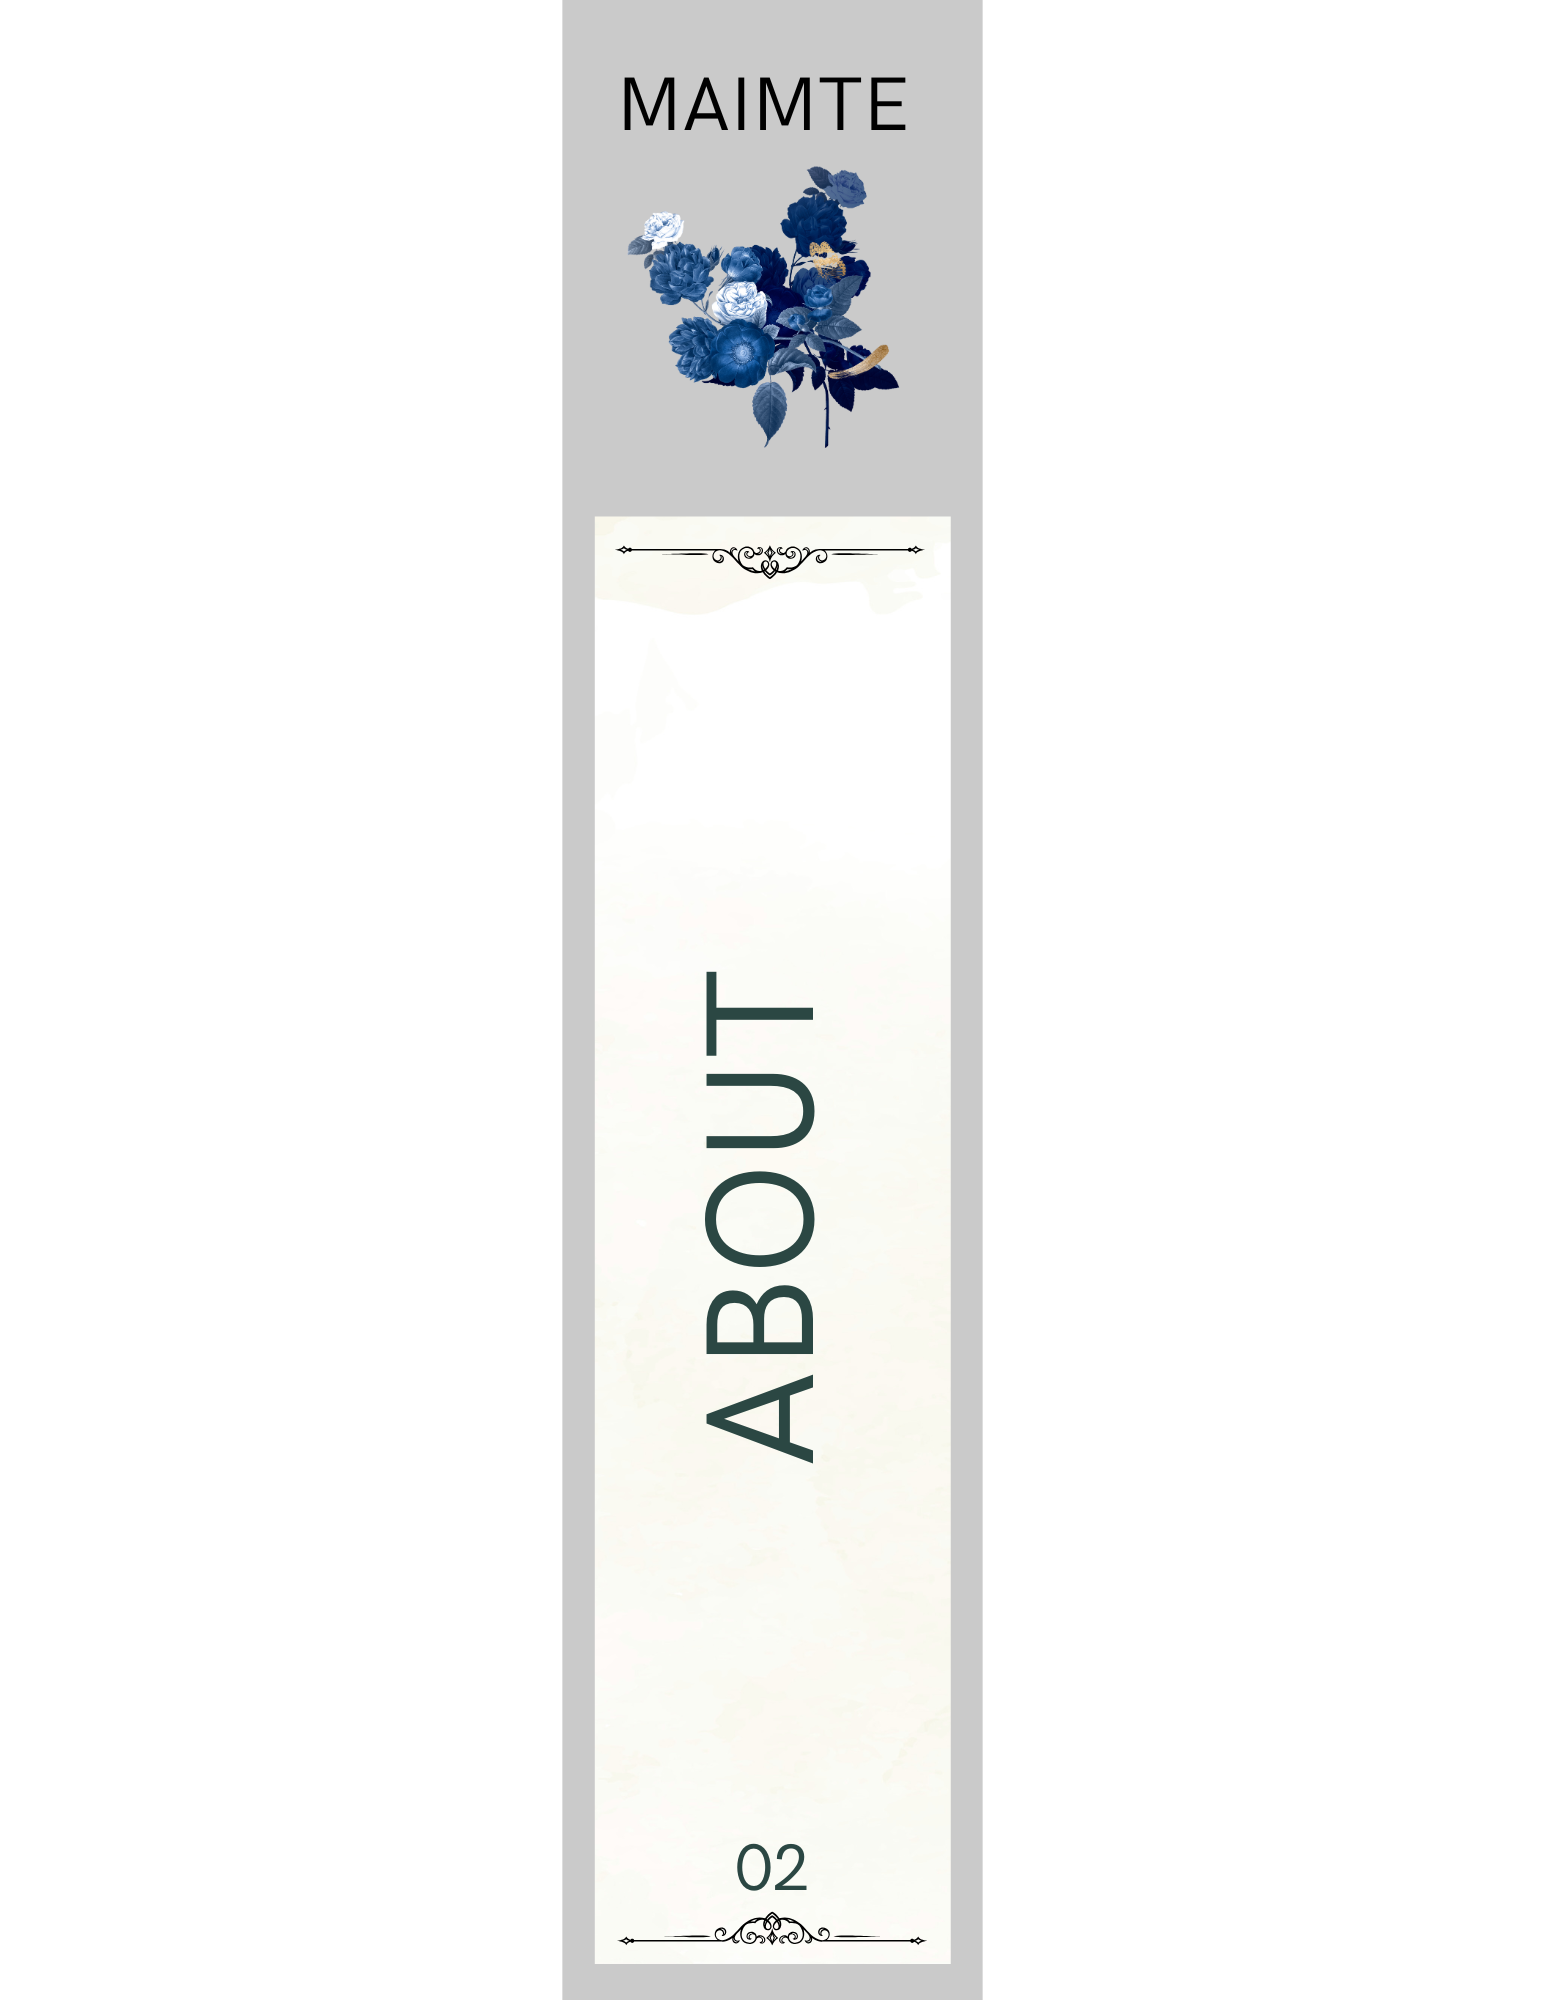
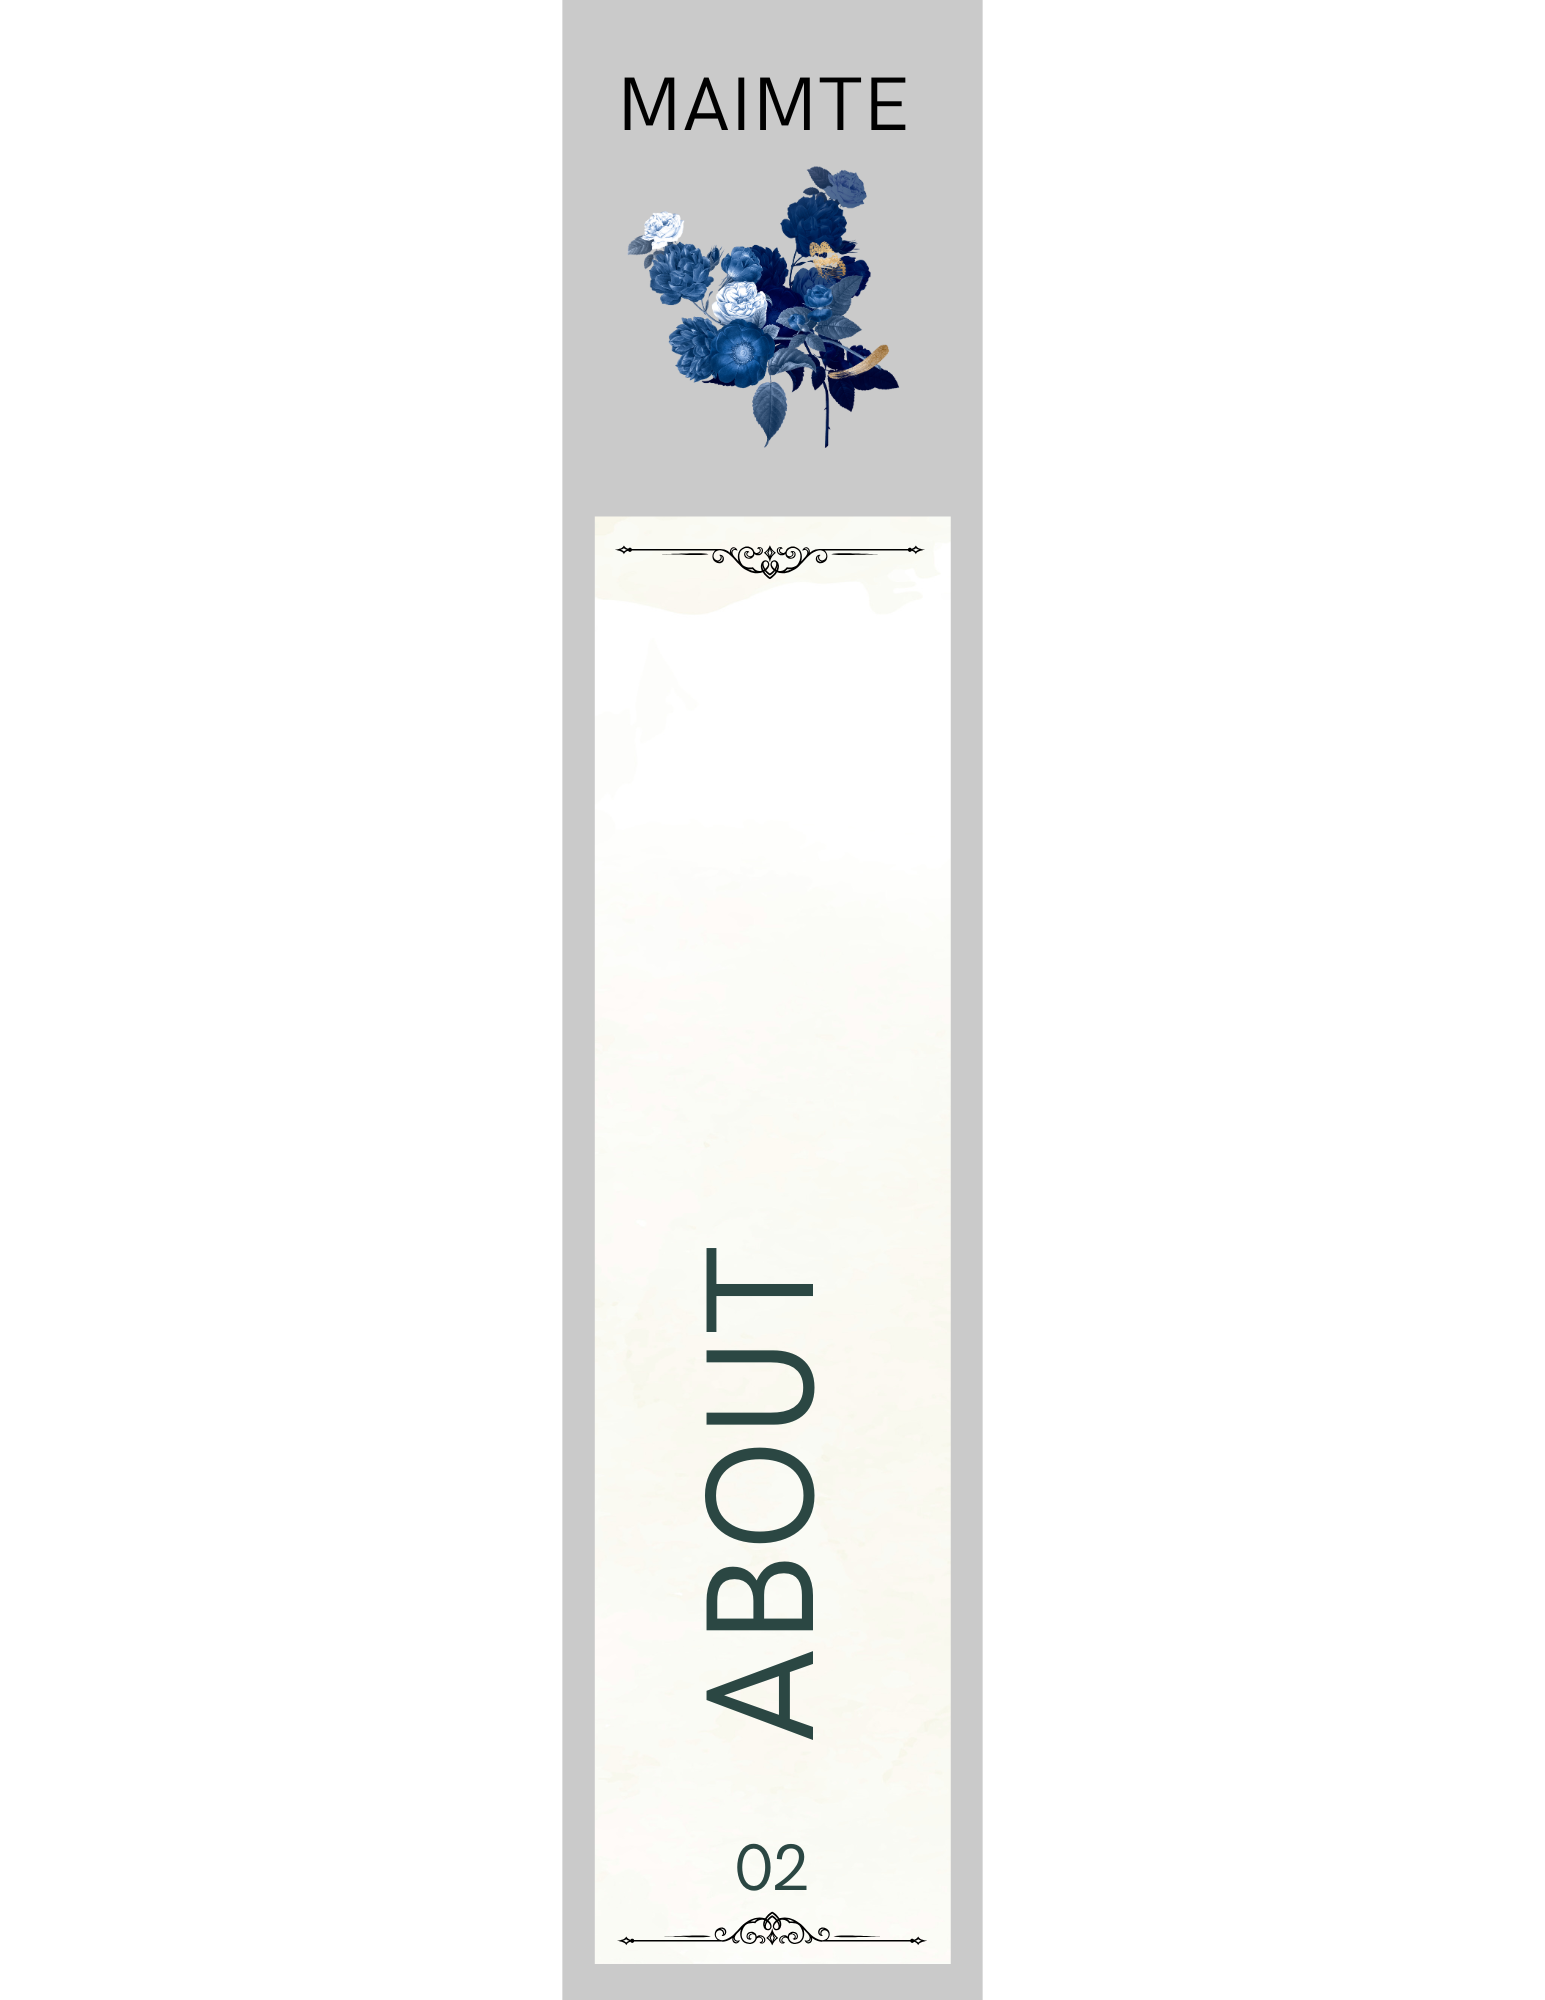
ok

Changed region(s): [[0.435, 0.496, 0.5282, 0.868]]

diff --git a/index.css b/index.css
@@ -167,6 +167,9 @@ header .logo img{
     height: 100%;
     width: 100%;
     background-color: #fff;
+    background-image: url(Anime\ style\ night\ forest.jpeg);
+    background-size: cover;
+    background-position: center;
     position: relative;
     display: flex;
     align-items: center;
@@ -178,7 +181,7 @@ header .logo img{
     background-color: transparent;
     position: absolute;
     left: 20px;
-    bottom: 20px;
+    top: 20px;
     font-size: 7em;
     font-family: 'Times New Roman', Times, serif;
     color: transparent;
@@ -572,8 +575,8 @@ animation-delay: calc((8s / 5 * (var(--position) - 1)));
 }
 #about .introduction .photo img{
     position: absolute;
-    background-color: transparent;
-    right: 0;
+    background-color: red;
+    right: -10%;
     bottom: 0;
     height: 70%;
 }
@@ -864,9 +867,6 @@ THE RESPONSIVE TO 320
 #menucontainer .themenu .home{
     height: 45%;
     width: 112px;
-    background-image: url(home.png);
-    background-position: center;
-    background-size: cover;
     bottom: 8%;
     right: 287px;
     transform: rotate(0deg);
@@ -875,9 +875,6 @@ THE RESPONSIVE TO 320
 #menucontainer .themenu .about{
     height: 45%;
     width: 94px;
-    background-image: url(about.png);
-    background-position: center;
-    background-size: cover;
     bottom: 8%;
     right: 189px;
     transform: rotate(1deg);
@@ -886,9 +883,6 @@ THE RESPONSIVE TO 320
 #menucontainer .themenu .project{
     height: 45%;
     width: 79px;
-    background-image: url(project.png);
-    background-position: center;
-    background-size: cover;
     bottom: 8%;
     right: 105px;
     transform: rotate(0deg);
@@ -897,9 +891,6 @@ THE RESPONSIVE TO 320
 #menucontainer .themenu .contect{
     height: 45%;
     width: 79px;
-    background-image: url(contect.png);
-    background-position: center;
-    background-size: cover;
     bottom: 8%;
     right: 20px;
     transform: rotate(-1.5deg);

diff --git a/index.html b/index.html
@@ -38,10 +38,10 @@
     <div id="menucontainer">
         <div class="themenu">
             <h1>MY BOOKS</h1>
-        <div class="home" id="book"><a href="#home"><img src="hoe.png" alt=""></a></div>
-       <div class="about" id="book"> <a href="#about"><img src="aout.png" alt=""></a></div>
-        <div class="project" id="book"><a href="#project"><img src="prject.png" alt=""></a></div>
-        <div class="contect" id="book"><a href="#contect"><img src="contct.png" alt=""></a></div>
+        <div class="home" id="book"><a href="#home"></a></div>
+       <div class="about" id="book"> <a href="#about"></a></div>
+        <div class="project" id="book"><a href="#project"></a></div>
+        <div class="contect" id="book"><a href="#contect"></a></div>
         </div>
     </div>
     </nav>
